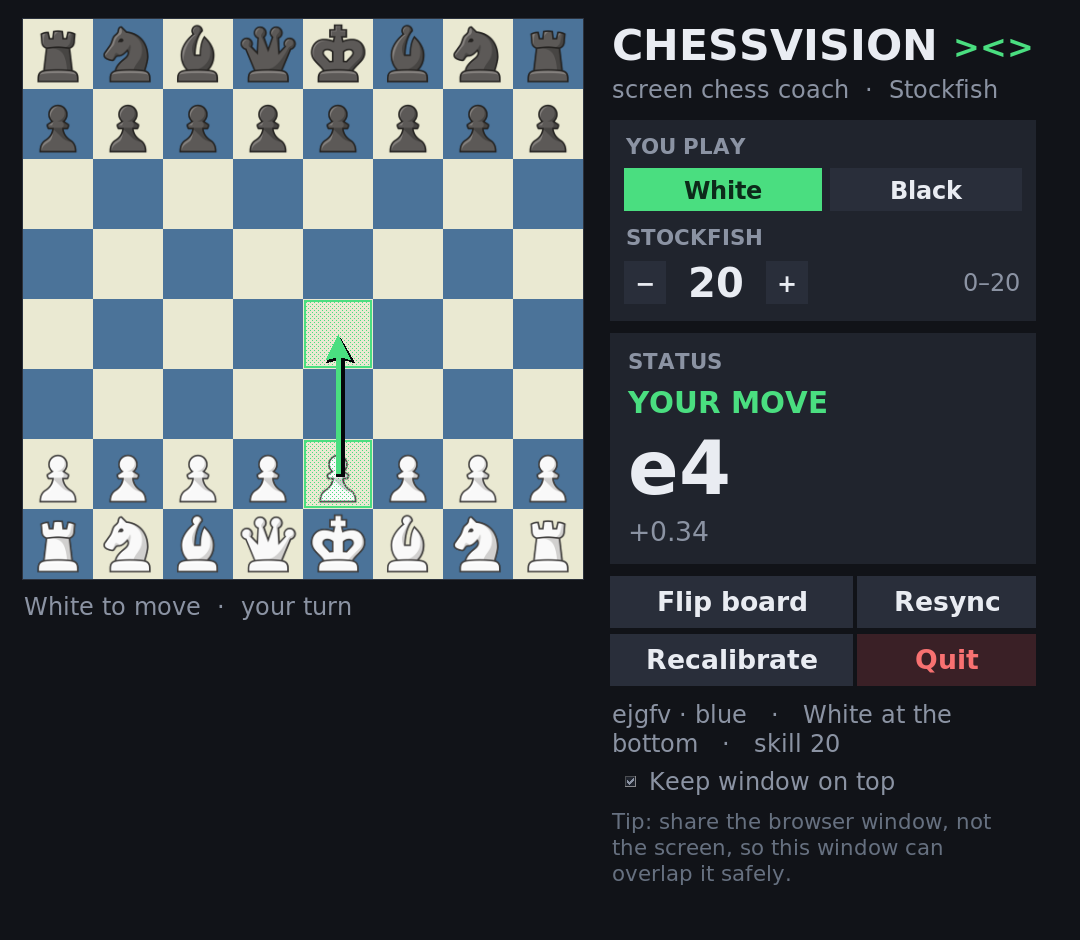
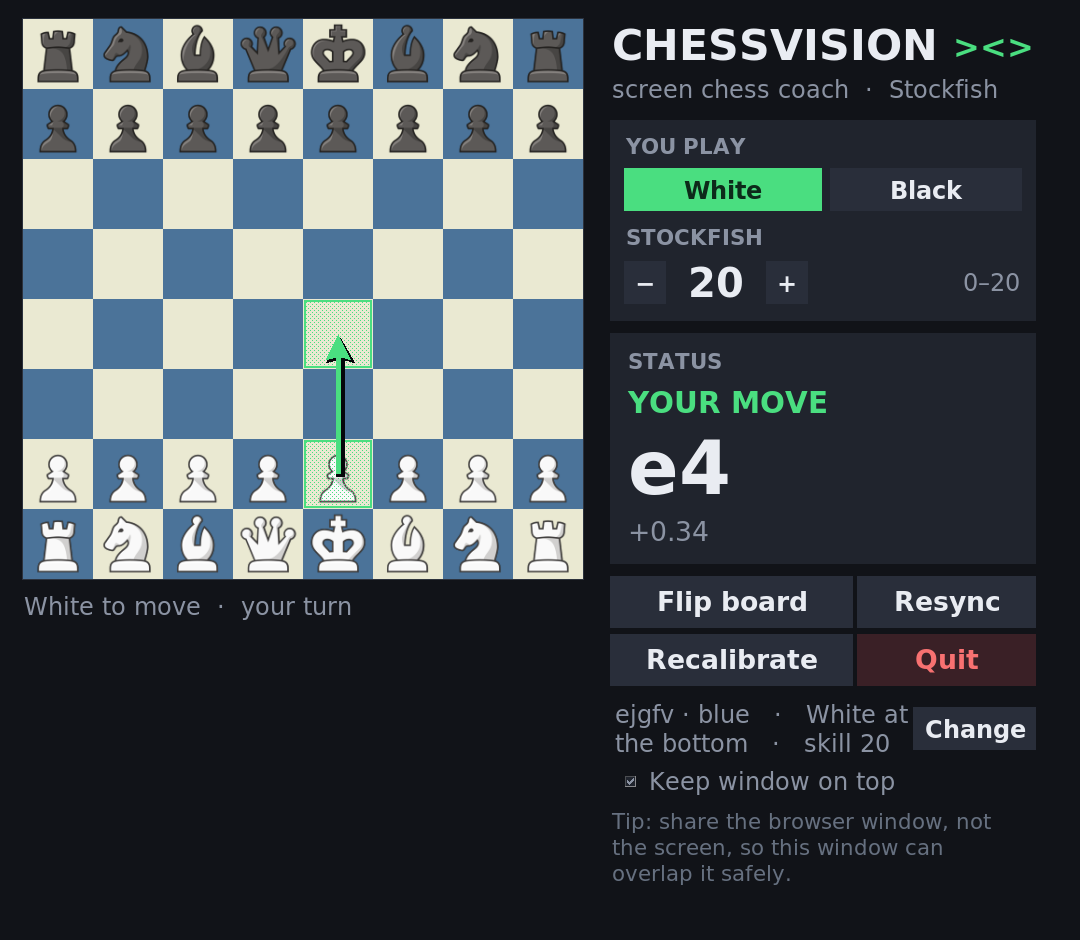
Add in-app theme picker with preview
Change pieces/board from the GUI; the dialog renders the starting position with the selected assets, and Apply rebuilds the templates and persists the theme.

Changed region(s): [[0.55, 0.7404, 0.9778, 0.8021]]

diff --git a/gui.py b/gui.py
@@ -10,6 +10,7 @@ import chess.engine
 import cv2
 import numpy as np
 import tkinter as tk
+from tkinter import ttk
 from PIL import Image, ImageTk
 
 import chessvision as core
@@ -35,6 +36,32 @@ WIN_W, WIN_H = 1080, 940
 
 def side_name(color):
     return 'White' if color == chess.WHITE else 'Black'
+
+
+def theme_preview(assets_dir, board_name, pieces_name, size=240):
+    """Render the starting position from the asset PNGs for the theme dialog."""
+    board_path = Path(assets_dir) / 'boards' / f'{board_name}.png'
+    pieces_dir = Path(assets_dir) / 'pieces' / pieces_name
+    board = cv2.imread(str(board_path), cv2.IMREAD_COLOR)
+    if board is None or not pieces_dir.is_dir():
+        return None
+    board = cv2.resize(board, (size, size), interpolation=cv2.INTER_AREA)
+    cell = size // 8
+    for square, piece in chess.Board().piece_map().items():
+        code = ('w' if piece.color else 'b') + piece.symbol().lower()
+        sprite = cv2.imread(str(pieces_dir / f'{code}.png'), cv2.IMREAD_UNCHANGED)
+        if sprite is None:
+            continue
+        sprite = cv2.resize(sprite, (cell, cell), interpolation=cv2.INTER_AREA)
+        rgb = sprite[:, :, :3].astype(np.float32)
+        alpha = (sprite[:, :, 3:4].astype(np.float32) / 255
+                 if sprite.shape[2] == 4 else np.ones((cell, cell, 1), np.float32))
+        r = 7 - chess.square_rank(square)
+        c = chess.square_file(square)
+        y0, x0 = r * cell, c * cell
+        roi = board[y0:y0 + cell, x0:x0 + cell].astype(np.float32)
+        board[y0:y0 + cell, x0:x0 + cell] = (alpha * rgb + (1 - alpha) * roi).astype(np.uint8)
+    return board
 
 
 def launch(args):
@@ -288,9 +315,13 @@ class App:
         grid.columnconfigure(0, weight=1)
         grid.columnconfigure(1, weight=1)
 
-        self.theme_label = tk.Label(right, text='', bg=BG, fg=MUTED, font=(FONT, 9),
-                                    wraplength=400, justify='left')
-        self.theme_label.pack(anchor='w', pady=(12, 6))
+        self.theme_row = tk.Frame(right, bg=BG)
+        self.theme_row.pack(fill='x', pady=(12, 6))
+        self.theme_label = tk.Label(self.theme_row, text='', bg=BG, fg=MUTED,
+                                    font=(FONT, 9), wraplength=330, justify='left')
+        self.theme_label.pack(side='left', fill='x', expand=True)
+        self._button(self.theme_row, 'Change', self.open_theme_dialog,
+                     small=True).pack(side='right')
         pin = tk.Checkbutton(right, text='Keep window on top', variable=self.pin_var,
                              command=self.toggle_pin, bg=BG, fg=MUTED, selectcolor=CARD,
                              activebackground=BG, activeforeground=TEXT, bd=0,
@@ -500,7 +531,7 @@ class App:
         self.status_card.pack_forget()
         self.status_card.pack(fill='x')
         self.controls_card.pack_forget()
-        self.controls_card.pack(fill='x', pady=(12, 0), before=self.theme_label)
+        self.controls_card.pack(fill='x', pady=(12, 0), before=self.theme_row)
         self.canvas.configure(cursor='arrow')
         self.mode = 'play'
 
@@ -732,6 +763,117 @@ class App:
                     self._draw_play(roi_img)
                     self._auto_resync(now)
         self.root.after(80, self.tick)
+
+    # -------------------------------------------------------------- theme
+
+    def apply_theme(self, pieces, board_name):
+        try:
+            rec = core.build_from_assets(self.assets_dir, board_name, pieces,
+                                         self.bottom == 'white')
+        except SystemExit as exc:
+            return str(exc)
+        self.use_assets = True
+        self.pieces, self.board_name = pieces, board_name
+        self.rec = rec
+        rec.save()
+        self._save()
+        self._update_theme_label()
+        self.pending = self.committed = None
+        self.analysis_id += 1
+        self.move = None
+        if self.mode == 'play':
+            self.set_view('info', 'THEME CHANGED', '', f'{pieces} · {board_name}')
+        return None
+
+    def open_theme_dialog(self):
+        top = tk.Toplevel(self.root)
+        top.title('Change theme')
+        top.configure(bg=BG)
+        top.transient(self.root)
+        top.resizable(False, False)
+        top.grab_set()
+        self.root.update_idletasks()
+        rx, ry = self.root.winfo_rootx(), self.root.winfo_rooty()
+        rw, rh = self.root.winfo_width(), self.root.winfo_height()
+        w, h = 470, 620
+        top.geometry(f'{w}x{h}+{rx + (rw - w) // 2}+{ry + (rh - h) // 2}')
+
+        pieces_list = sorted(p.name for p in (self.assets_dir / 'pieces').iterdir()
+                             if p.is_dir())
+        boards_list = sorted(p.stem for p in (self.assets_dir / 'boards').glob('*.png'))
+        if not pieces_list or not boards_list:
+            tk.Label(top, text='No board/piece assets found in ./assets.', bg=BG,
+                     fg=RED, font=(FONT, 10)).pack(padx=20, pady=20)
+            return
+        default_pieces = self.pieces if self.pieces in pieces_list else pieces_list[0]
+        default_board = self.board_name if self.board_name in boards_list else boards_list[0]
+
+        tk.Label(top, text='THEME', bg=BG, fg=AMBER,
+                 font=(FONT, 9, 'bold')).pack(anchor='w', padx=20, pady=(16, 2))
+        tk.Label(top, text='Templates are rebuilt from these PNGs; the live screen '
+                           'should use the same theme.', bg=BG, fg=MUTED,
+                 font=(FONT, 9), wraplength=410, justify='left').pack(
+            anchor='w', padx=20, pady=(0, 10))
+
+        preview = tk.Frame(top, bg=BORDER, padx=1, pady=1)
+        preview.pack(pady=(0, 14))
+        pcanvas = tk.Canvas(preview, width=240, height=240, bg='#0b0d11',
+                            highlightthickness=0)
+        pcanvas.pack()
+
+        style = ttk.Style(top)
+        style.theme_use('clam')
+        style.configure('Dark.TCombobox', fieldbackground=CARD2, background=CARD2,
+                        foreground=TEXT, arrowcolor=TEXT, bordercolor=BORDER,
+                        lightcolor=CARD2, darkcolor=CARD2, padding=6)
+        style.map('Dark.TCombobox', fieldbackground=[('readonly', CARD2)],
+                  foreground=[('readonly', TEXT)])
+        top.option_add('*TCombobox*Listbox.background', CARD2)
+        top.option_add('*TCombobox*Listbox.foreground', TEXT)
+        top.option_add('*TCombobox*Listbox.selectBackground', ACCENT)
+        top.option_add('*TCombobox*Listbox.selectForeground', ACCENT_DARK)
+
+        form = tk.Frame(top, bg=BG)
+        form.pack(fill='x', padx=20)
+        tk.Label(form, text='Pieces', bg=BG, fg=MUTED, font=(FONT, 9, 'bold')).grid(
+            row=0, column=0, sticky='w', pady=4)
+        pvar = tk.StringVar(value=default_pieces)
+        pcombo = ttk.Combobox(form, textvariable=pvar, values=pieces_list,
+                              state='readonly', style='Dark.TCombobox', width=24)
+        pcombo.grid(row=0, column=1, sticky='ew', padx=(12, 0), pady=4)
+        tk.Label(form, text='Board', bg=BG, fg=MUTED, font=(FONT, 9, 'bold')).grid(
+            row=1, column=0, sticky='w', pady=4)
+        bvar = tk.StringVar(value=default_board)
+        bcombo = ttk.Combobox(form, textvariable=bvar, values=boards_list,
+                              state='readonly', style='Dark.TCombobox', width=24)
+        bcombo.grid(row=1, column=1, sticky='ew', padx=(12, 0), pady=4)
+        form.columnconfigure(1, weight=1)
+
+        def update_preview(*_):
+            img = theme_preview(self.assets_dir, bvar.get(), pvar.get(), 240)
+            if img is None:
+                return
+            photo = ImageTk.PhotoImage(Image.fromarray(cv2.cvtColor(img, cv2.COLOR_BGR2RGB)))
+            pcanvas.delete('all')
+            pcanvas.create_image(120, 120, image=photo)
+            pcanvas.image = photo
+
+        pcombo.bind('<<ComboboxSelected>>', update_preview)
+        bcombo.bind('<<ComboboxSelected>>', update_preview)
+        update_preview()
+
+        def apply():
+            error = self.apply_theme(pvar.get(), bvar.get())
+            if error:
+                tk.Label(top, text=error, bg=BG, fg=RED, font=(FONT, 9),
+                         wraplength=410, justify='left').pack(padx=20, pady=4)
+            else:
+                top.destroy()
+
+        row = tk.Frame(top, bg=BG)
+        row.pack(fill='x', padx=20, pady=16)
+        self._button(row, 'Apply', apply, accent=True).pack(side='right')
+        self._button(row, 'Cancel', top.destroy, small=True).pack(side='right', padx=6)
 
     # ----------------------------------------------------------- controls
 

diff --git a/README.md b/README.md
@@ -9,7 +9,8 @@ evaluation or mate distance.
 
 - Your side is fixed. It changes only with `--side` or the `s` key — never on its own.
 - Best results come from **asset mode**: templates built from the exact board/piece
-  images in `assets/` (`--pieces`, `--board`). No colour guessing.
+  images in `assets/` (`--pieces`, `--board`, or the in-app **Change** dialog with a
+  live preview). No colour guessing.
 - Screenshot calibration is the fallback when you do not know the theme names.
 - Automatic resync and board-flip handling, a suggestion sanity guard, adjustable
   Stockfish strength, and an offline self-test.
@@ -56,7 +57,8 @@ On the first run (or after `--recalibrate`) the app asks for the board area:
 ```
 
 `ls assets/boards assets/pieces` lists the theme names. Once a theme is chosen it is
-remembered; `--recalibrate` only re-selects the board area.
+remembered; `--recalibrate` only re-selects the board area. You can switch themes any
+time with **Change** in the app (preview included) — no restart required.
 
 If you change what you share (window ↔ screen) or resize it, the capture size changes
 and the app asks you to recalibrate. The screenshot fallback (`--screenshot`) requires
@@ -71,6 +73,10 @@ the board to be at the starting position.
 - **Flip board** — if chess.com shows the board from the other side.
 - **Resync** — re-read the position from the screen.
 - **Recalibrate** — re-select the 64 squares (and re-check the piece set).
+- **Change** (next to the theme line) — pick the pieces and board from the bundled
+  assets. The dialog previews the starting position with that theme; **Apply**
+  rebuilds the templates and remembers the choice. The live chess.com theme should
+  match the preview.
 - **Quit**.
 - Keys: `q` quit, `s` switch side, `f` flip board, `r` resync, `[` / `]` strength,
   `e` a secret.
